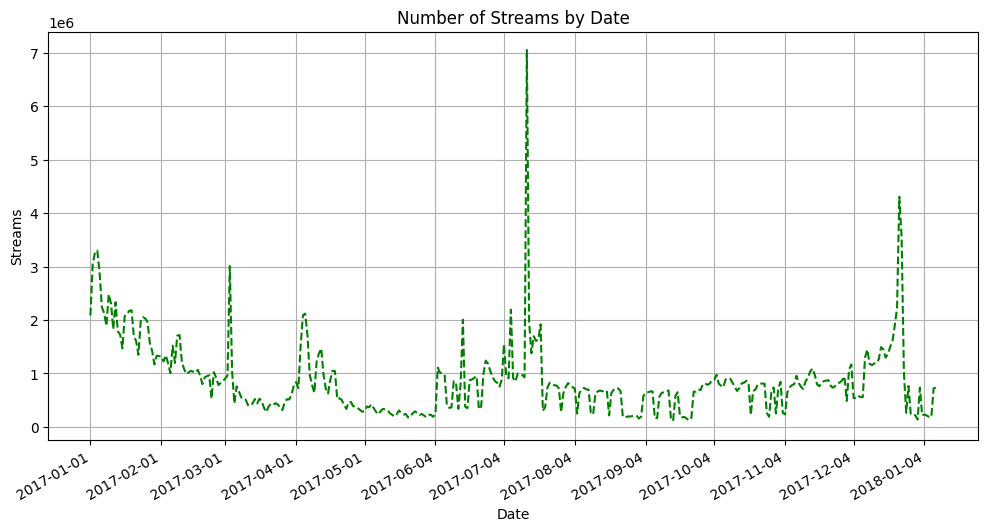
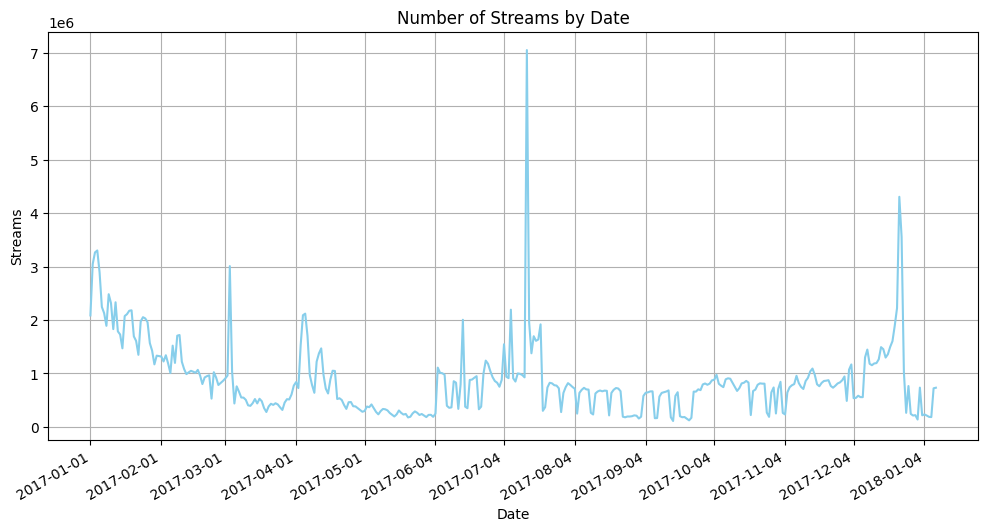
decomposizione

diff --git a/data_visualization.py b/data_visualization.py
@@ -12,7 +12,7 @@ song = pd.read_csv(file_song)
 
 def streams_by_date(dataset, name):
     fig, ax = plt.subplots(figsize=(12, 6))
-    ax.plot_date(dataset['Date'], dataset['Streams'], fmt='g--')  # x = array of dates, y = array of numbers
+    ax.plot_date(dataset['Date'], dataset['Streams'], fmt='g-', color='skyblue')  # x = array of dates, y = array of numbers
     fig.autofmt_xdate()
     # For tickmarks and ticklabels every week
     ax.xaxis.set_major_locator(MonthLocator())
@@ -32,7 +32,7 @@ def streams_by_date(dataset, name):
 def streams_by_day(dataset, name):
     day = dataset['Day of week'].unique()
     plt.figure(figsize=(10, 5))
-    plt.bar(day, dataset.groupby('Day of week')['Streams'].sum(), width=0.5, color='green')
+    plt.bar(day, dataset.groupby('Day of week')['Streams'].sum(), width=0.5, color='skyblue')
     plt.xlabel("Day of Week")
     plt.ylabel("Total Stream")
     plt.title("Number of Streams by day of week")
@@ -55,23 +55,23 @@ def decompose(dataset, model):
     seasonal = result.seasonal
     residual = result.resid
 
-    plt.figure(figsize=(8,6))
+    plt.figure(figsize=(8,8))
 
     plt.subplot(411)
     plt.title(f'{model.capitalize()} decomposition')
-    plt.plot(dataset, label='Original', color='green')
+    plt.plot(dataset, label='Original', color='skyblue')
     plt.legend(loc='upper left')
 
     plt.subplot(412)
-    plt.plot(trend, label='Trend', color='green')
+    plt.plot(trend, label='Trend', color='skyblue')
     plt.legend(loc='upper left')
 
     plt.subplot(413)
-    plt.plot(seasonal, label='Seasonality', color='green')
+    plt.plot(seasonal, label='Seasonality', color='skyblue')
     plt.legend(loc='upper left')
 
     plt.subplot(414)
-    plt.plot(residual, label='Residuals', color='green')
+    plt.plot(residual, label='Residuals', color='skyblue')
     plt.legend(loc='upper left')
 
     plt.tight_layout()
@@ -79,13 +79,13 @@ def decompose(dataset, model):
     plt.show()
 
 
-'''
-streams_by_day(song, 'song')
-streams_by_date(song, 'song')
+
+'''streams_by_day(song, 'song')
+streams_by_date(song, 'song')'''
 
 streams_by_day(coldplay, 'coldplay')
 streams_by_date(coldplay, 'coldplay')
-'''
+
 
 decompose(coldplay,'multiplicative')
 decompose(coldplay,'additive')
